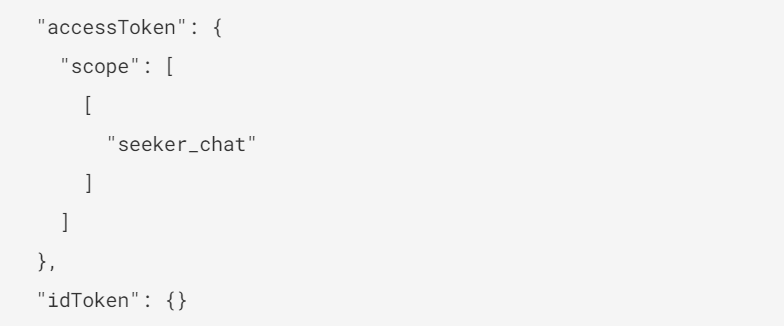
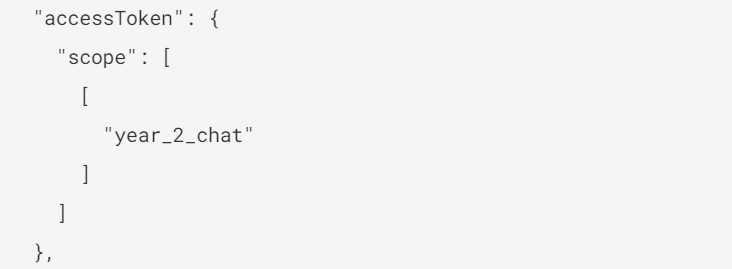
update graph rule

diff --git a/article.md b/article.md
@@ -231,6 +231,7 @@ class Player(Base):
     id = Column(Integer, primary_key=True)
     name = Column(String(50), nullable=False)
     position = Column(String(50), nullable=False)
+    year = Column(Integer, nullable=False)
     team_id = Column(Integer, ForeignKey('teams.id'), nullable=False)
 
     def __repr__(self):
@@ -300,7 +301,7 @@ This is the process we'll use to add any new row into a table. We're just callin
 Let's add our first player as well. We've already imported the classes, so we don't need to do it again.
 
 ```bash
-player1 = Player(name='Harry Potter', position='Seeker', on_team=team1)
+player1 = Player(name='Harry Potter', position='Seeker', year=1, on_team=team1)
 db_session.add(player1)
 db_session.commit()
 ```
@@ -658,7 +659,7 @@ Next we just need to wait for this response and when it comes back, check if tha
 
 Let's test that this works. Click "Try this rule" and we can run the rule with a mock user.
 
-#### Our user before logging in
+#### Our user during login
 
 This is what the **user object** looks like before logging in. We have our user's basic information like `id` and `name`. Then in the next image we can see the user's **context object**, which holds information about the authentication transaction. Notice that the `accessToken` scope is currently empty. Click "Try" so we can run this rule against this user.
 
@@ -667,95 +668,85 @@ This is what the **user object** looks like before logging in. We have our user'
 
 #### After Logging In
 
-Now our user is returned and if you look at the context object, we can see a `seeker_chat` permission has been added to the access token's scope.
+Now our user is returned and if you look at the context object, we can see a `year_2_chat` permission has been added to the access token's scope.
 
 ![](https://raw.githubusercontent.com/hollylawly/flask-graphql-article/master/images/seeker-chat-context-after.png)
 
 #### Denying a User
 
-Just for good measure, let's make sure that we're only extending this permission to player's with the Seeker position. Change the user's name to "Oliver Wood", who is a Captain, and run the rule.
-
-![](https://raw.githubusercontent.com/hollylawly/flask-graphql-article/master/images/seeker-chat-user-denied.png)
-![](https://raw.githubusercontent.com/hollylawly/flask-graphql-article/master/images/seeker-chat-denied-message.png)
-
-The user is denied, just as we were expecting.
+This is a quick way to grant permissions dynamically. We can setup our app so that in order to access a certain year's chatroom, you must have the correct permission for that year. So if a player in her 3rd year tries to access Year 2 Chat, she will be denied. 
 
 ### Creating a ReBAC Rule
 
 Next up, let's create our relationship based rule. 
 
-For this scenario, let's say a user is trying to gain access to information about a particular game. And let's just imagine that the game results are supposed to be a secret to everyone **except the users on the winning team of that game**. 
+For this scenario, let's imagine that we need to restrict view access of player's profiles based on what team they're on. 
 
-We need to create a rule that steps in front of the user when they try to access the game data and checks if they were the winner of that game. We'll run the `getGame` query and check if the `winnerId` matches the `team_id` of the user trying to access it. This is the query and the data that we're trying to protect:
+**A player can see the profile's of every other player on their team, but no one else.**
 
-![](https://raw.githubusercontent.com/hollylawly/flask-graphql-article/master/images/get-game-single-query.png)
+We want to create a rule that jumps in after a user logs in and determines what players the user will be able to see. 
+
+First we'll run the `getPlayer` query for the user that's logging in. In that query, we'll use the `onTeam` relationship to pull what team the user is on. From there we can use the `players` relationship to grab all of the players that are on that team. This is the query and the data that we're going to use to determine what the user can access:
+
+![](images/get-player-teammates.png)
 
 Create a new rule with the following:
 
 ```js
 function (user, context, callback) {
-  
   const axios = require('axios');
-  const gameId = 8;
   
-  // If no user, deny them access
   if (! user.id)
     return callback(new UnauthorizedError('Access denied. Please login.'));
   
   axios({
-    url: 'https://e709d1d2.ngrok.io/graphql',
+    url: 'https://4ee74187.ngrok.io/graphql',
     method: 'post',
     data: {
       query: `
         {
-          getGame(id: ${gameId}) {
-            level
-            winnerId
-            loserId
-            child {
-              level
-              winnerId
+          getPlayer(name: "${user.name}") {
+            name
+            onTeam {
+              name
+              players {
+                edges {
+                  node {
+                    name
+                    position
+                    year
+                  }
+                }
+              }
             }
           }
         }
       `
     }
-   }).then((result) => {
-        // Check that the user's team_id matches the winnerId of the game 
-        if (user.team_id === result.data.data.getGame.winnerId) {
-        // Add the game info to the context object, just to make sure it's working
-        context.gameInfo = result.data.data.getGame;
+   }).then((result) => {      
+      if (result.data.data.getPlayer.onTeam) {        
+        context.viewablePlayers = result.data.data.getPlayer.onTeam.players.edges;
         return callback(null, user, context);
       } else
-        return callback(new UnauthorizedError('You are not authorized to see this.'));
+        return callback(new UnauthorizedError('Please join a team to see players.'));
     }).catch(err => {
       return callback(err);
-    });
-  
+    });  
 }
 ```
 
-#### Before Logging In
+#### Before/During login
 
-Zacharias Smith is requesting access to the game data. He's on team Ravenclaw (`team_id` of 4), which matches the `winnerId` of the game. We expect him to gain access and have the `gameInfo` object added to the user context.
+Harry Potter signs into his dashboard. The rule runs and just for demonstration purposes we'll add his list of viewable players to the context object.
 
-![](https://raw.githubusercontent.com/hollylawly/flask-graphql-article/master/images/game-winner-user.png)
+![](images/player-teams-user-before.png)
+![](images/player-teams-context-before.png)
 
 #### After Logging In
 
-Zacharias Smith is in!
+Harry Potter is in and now has access to these teammates:
 
-![](https://raw.githubusercontent.com/hollylawly/flask-graphql-article/master/images/get-team-games-query-children.png)
-
-#### Denying a User
-
-Again, let's check the case that a user who *shouldn't* have access tries tries to view the game. Harry Potter, who has `team_id` 1, should not be able to access this game.
-
-![](https://raw.githubusercontent.com/hollylawly/flask-graphql-article/master/images/game-user-denied-before.png)
-
-![](https://raw.githubusercontent.com/hollylawly/flask-graphql-article/master/images/game-user-denied-after.png)
-
-Just as we were expecting, Harry Potter is denied access.
+![](images/player-teams-context-after.png)
 
 ## Wrap Up
 
